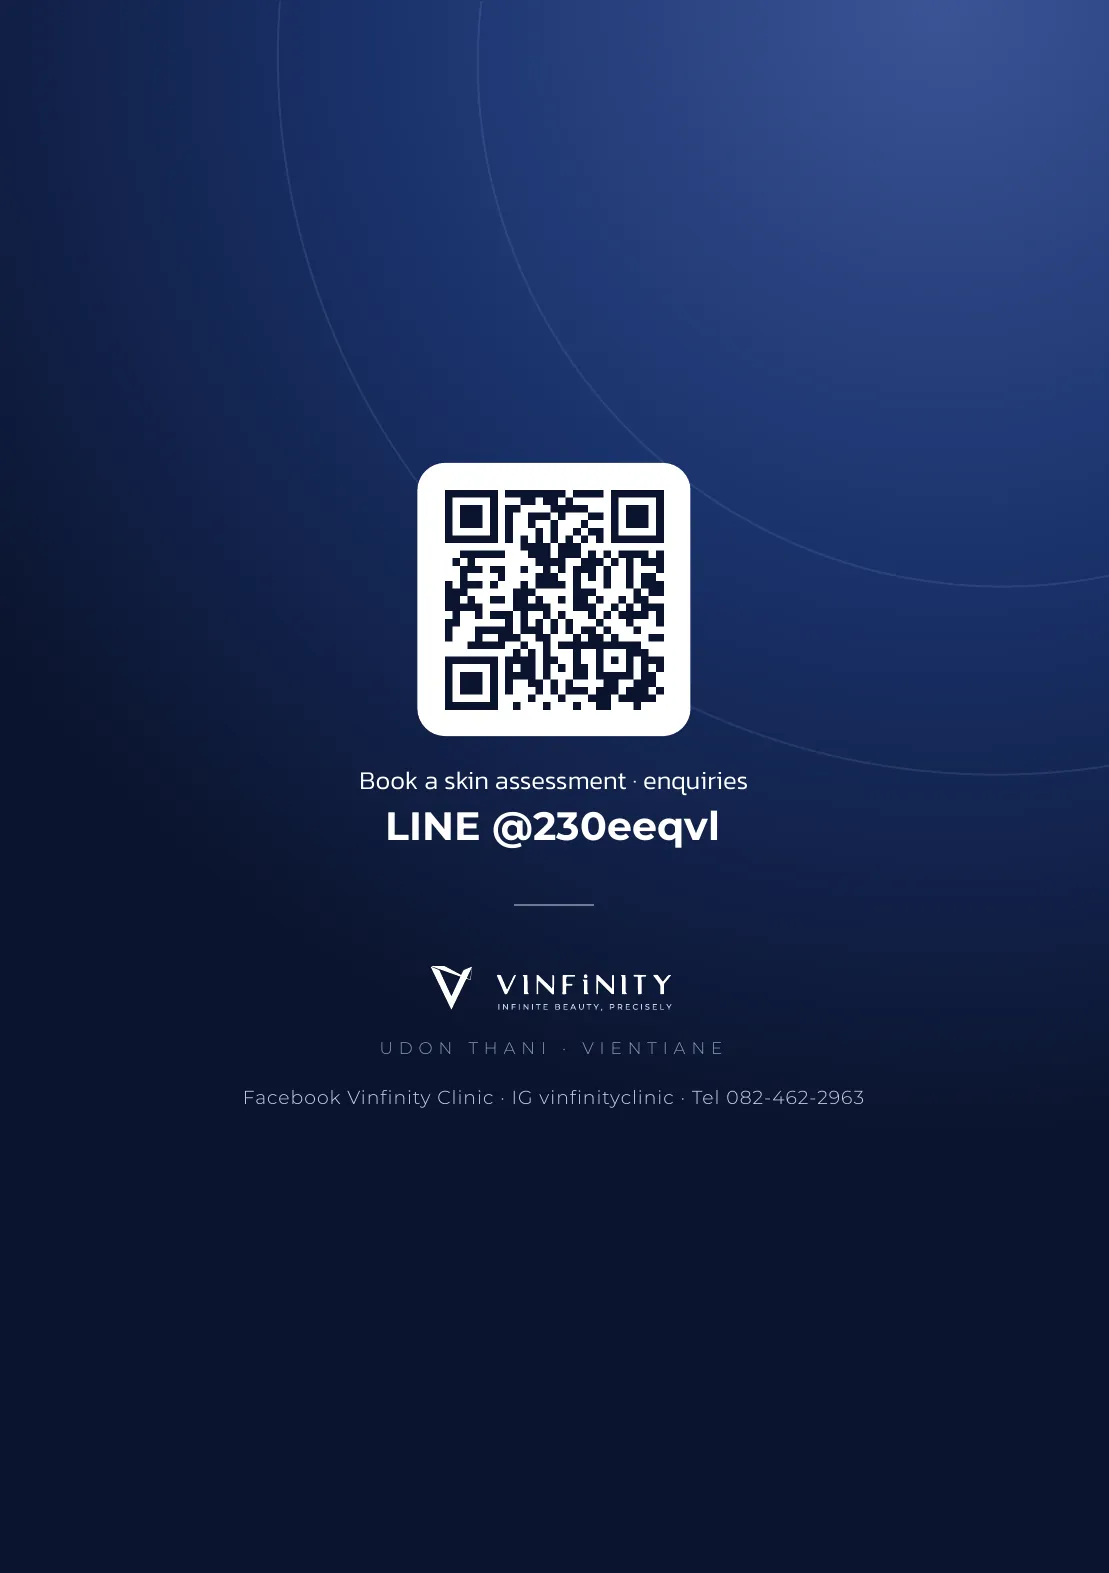
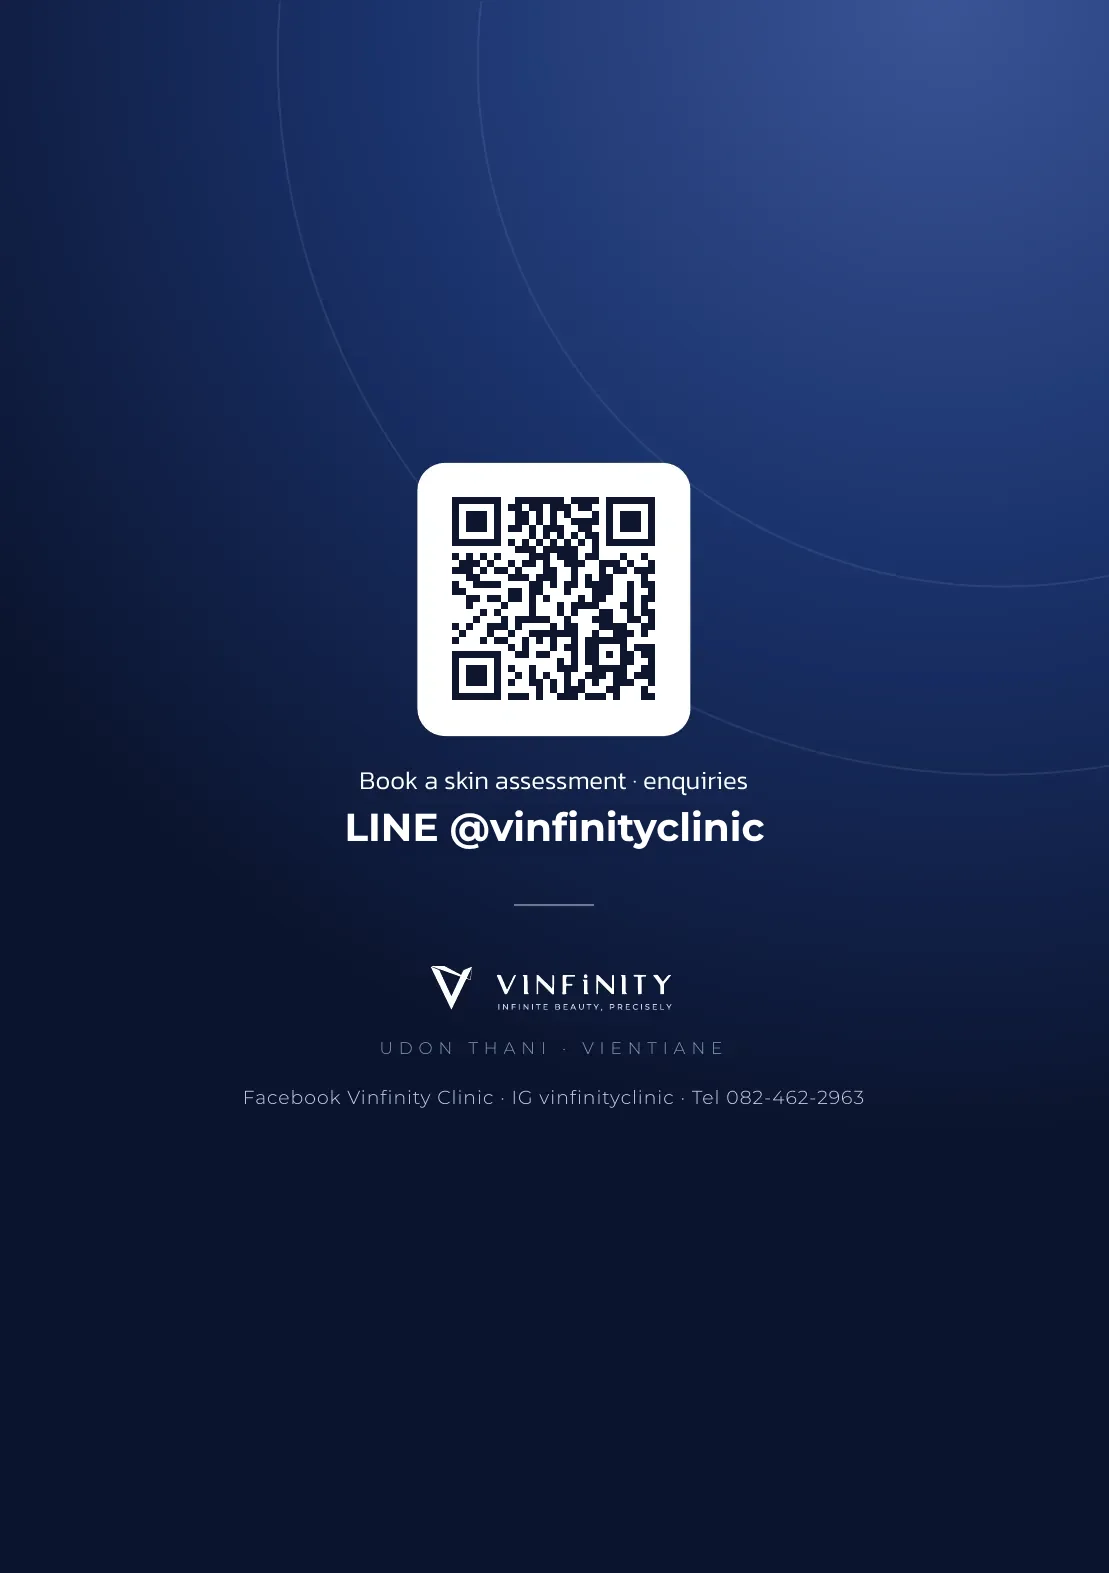
Menu book: back cover LINE @vinfinityclinic with new QR (TH/EN/LO), bump image version
Claude-Session: https://claude.ai/code/session_01CzyTvTKTHkTjRhKMjzZ1T5

Changed region(s): [[0.3986, 0.3115, 0.6132, 0.4673], [0.3066, 0.4984, 0.6745, 0.5607]]

diff --git a/menu/index.html b/menu/index.html
@@ -8,7 +8,7 @@
 <meta name="robots" content="noindex, follow">
 <meta name="theme-color" content="#0B142E">
 <meta property="og:title" content="Treatment Menu · Vinfinity Clinic">
-<meta property="og:image" content="https://vinfinityclinic.com/assets/img/menu/th-01.webp?v=20261005-3">
+<meta property="og:image" content="https://vinfinityclinic.com/assets/img/menu/th-01.webp?v=20261009-1">
 <link rel="icon" href="/favicon.svg">
 <link rel="stylesheet" href="/assets/fonts.css">
 <style>
@@ -117,7 +117,7 @@ footer{padding:6px 16px calc(12px + env(safe-area-inset-bottom));display:grid;ga
   var q = new URLSearchParams(location.search).get("lang"); if (/^(th|en|lo)$/.test(q || "")) lang = q;
 
   // /assets is cached for a year: bump V whenever the page images change, or phones keep the old pages
-  var V = "20261005-3";
+  var V = "20261009-1";
   var src = function (p, t) { return "/assets/img/menu/" + lang + "-" + String(p).padStart(2, "0") + (t ? "-t" : "") + ".webp?v=" + V; };
   // slides: phone = [1],[2]…; spread = [1],[2,3],[4,5]…[14,15],[16]
   function slides() {
